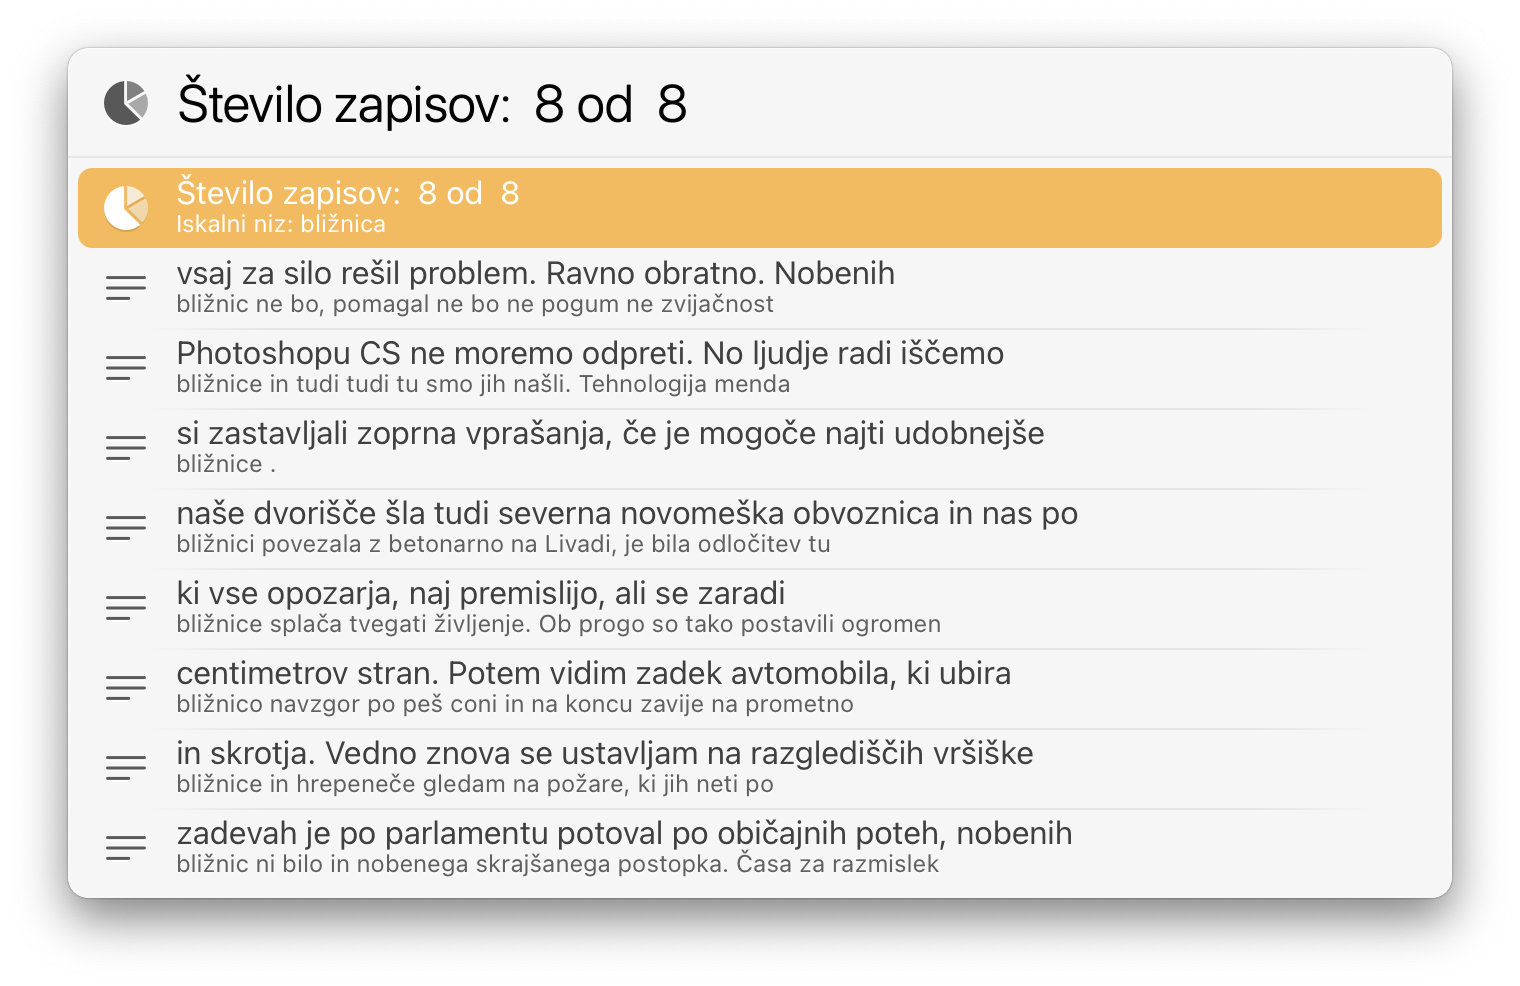
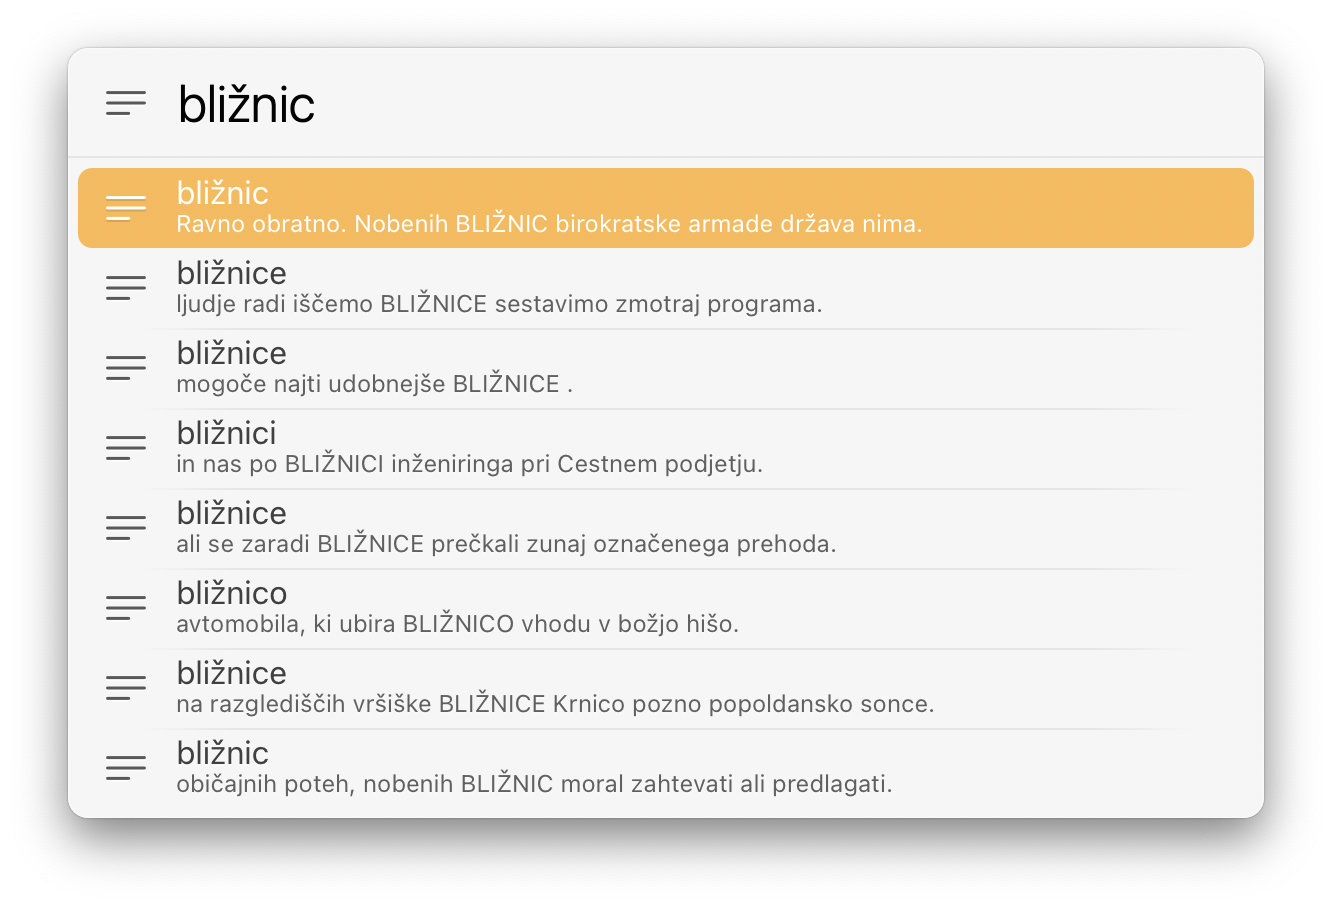
Gigafida 1.2
- Improved display
- HTMLEntityDecode via swift script

You can [compile with this action with my Compile Swift Action](https://github.com/Ptujec/LaunchBar/tree/master/Compile-Swift-Action). In this case you also need to uncomment line 68 and comment out line 66 in `default.js`. Please ask if you need help with that.

Changed region(s): [[0.0308, 0.0618, 0.9542, 0.9272]]

diff --git a/Slovene-Actions/Gigafida.lbaction/Contents/Scripts/default.js b/Slovene-Actions/Gigafida.lbaction/Contents/Scripts/default.js
@@ -1,131 +1,146 @@
 // LaunchBar Action for Gigafide - Korpus pisne standardne slovenščine (https://viri.cjvt.si/gigafida/)
 
 function run(argument) {
-  if (argument != undefined) {
-    argument = argument.trim().replace(/\s+/g, '+');
-
-    if (LaunchBar.options.controlKey) {
-      argument = '"' + argument + '"';
-    }
-
-    //  Main action
-    var mainURL =
-      'https://viri.cjvt.si/gigafida/Concordance/Search?Query=' +
-      encodeURI(argument);
-
-    if (LaunchBar.options.commandKey) {
-      LaunchBar.hide();
-      LaunchBar.openURL(mainURL);
-    } else {
-      var data = HTTP.loadRequest(mainURL, {
-        timeout: 5.0,
-        method: 'GET',
-        resultType: 'text',
-      }).data;
-
-      var colocationsSubfragment = data.match(
-        /<div class="colocationsSubfragment">(.|\n|\r)*?<footer>/g
-      );
-
-      // LaunchBar.paste(colocationsSubfragment);
-
-      if (colocationsSubfragment == null) {
-        var response = LaunchBar.alert(
-          'Gigafida: Ni bilo zadetkov!',
-          'Lahko poskusite na spletni strani "Nova beseda" (ZRC SAZU) ali na Googlu?',
-          'Nova beseda (ZRC SAZU)',
-          'Google',
-          'Cancel'
-        );
-        switch (response) {
-          case 0:
-            LaunchBar.openURL(
-              'http://bos.zrc-sazu.si/c/ada.exe?hits_shown=100&clm=22&crm=22&expression=' +
-                encodeURI(argument) +
-                '&clm=22&crm=22&wth=0&hits_shown=100&sel=%28all%29&name=a_si'
-            );
-            break;
-          case 1:
-            LaunchBar.openURL(
-              'http://www.google.si/search?q=' + encodeURIComponent(argument)
-            );
-            break;
-          case 2:
-            break;
-        }
-        return;
-      } else {
-        colocationsSubfragment = colocationsSubfragment
-          .toString()
-          .replace(/&#x17E;/g, 'ž')
-          .replace(/&#x17D;/g, 'Ž')
-          .replace(/&#x10D;/g, 'č')
-          .replace(/&#x10C;/g, 'Č')
-          .replace(/&#x161;/g, 'š')
-          .replace(/&#x160;/g, 'Š')
-          .replace(/&#x107;/g, 'ć')
-          .replace(/&#xFC;/g, 'ü')
-          .replace(/&#xDC;/g, 'Ü')
-          .replace(/&#xF6;/g, 'ö')
-          .replace(/&#xD6;/g, 'Ö')
-          .replace(/&#xE4;/g, 'ä')
-          .replace(/&#xC4;/g, 'Ä')
-          .replace(/&#xF4;/g, 'ô')
-          .replace(/&#xF3;/g, 'ó')
-          .replace(/&#xE3;/g, 'ã')
-          .replace(/&#xE1;/g, 'á')
-          .replace(/&#xED;/g, 'í')
-          .replace(/&#xE9;/g, 'é')
-          .replace(/&#x2B;/g, '+')
-          .replace(/&#xBB;/g, '»')
-          .replace(/&#xAB;/g, '«')
-          .replace(/&#x201C;/g, '“')
-          .replace(/&#x201D;/g, '”')
-          .replace(/&quot;/g, '"')
-          .replace(/&#x27;/g, "'")
-          .replace(/&#x2026;/g, '…')
-          .replace(/&#x2022;/g, '•')
-          .replace(/&#x2013;/g, '–')
-          .replace(/&#x2666/g, '♦')
-          .replace(/&#xB0/g, '°')
-          .replace(/&nbsp;/g, '');
-
-        var leftText = colocationsSubfragment.match(
-          /<div class="pure-u-1-2 text left">.*?<\/div>/g
-        );
-
-        var rightText = colocationsSubfragment.match(
-          /<div class="pure-u-1-2 text right">.*?<\/div>/g
-        );
-
-        var result = [];
-        for (var i = 0; i < rightText.length; i++) {
-          var left = leftText[i].replace(/(<([^>]+)>)/g, '');
-          var right = rightText[i].replace(/(<([^>]+)>)/g, '');
-
-          var pushData = {
-            icon: 'resultTemplate',
-            action: 'openURL',
-            actionArgument: mainURL,
-          };
-
-          if (left != '') {
-            pushData.title = left;
-            pushData.subtitle = right;
-          } else {
-            pushData.title = right;
-          }
-
-          result.push(pushData);
-        }
-        return result;
-      }
-    }
-  } else {
+  if (!argument) {
     // No argument passed, just open the website:
     LaunchBar.hide();
     LaunchBar.openURL('https://viri.cjvt.si/gigafida/');
+    return;
   }
+
+  argument = argument.trim().replace(/\s+/g, '+');
+
+  if (LaunchBar.options.controlKey) argument = `"${argument}"`;
+
+  //  Main action
+  const mainURL = `https://viri.cjvt.si/gigafida/Concordance/Search?Query=${encodeURI(
+    argument
+  )}`;
+
+  if (LaunchBar.options.commandKey) {
+    LaunchBar.hide();
+    LaunchBar.openURL(mainURL);
+    return;
+  }
+
+  const data = HTTP.loadRequest(mainURL, {
+    timeout: 5.0,
+    method: 'GET',
+    resultType: 'text',
+  }).data;
+
+  let colocationsSubfragment = data.match(
+    /<div class="colocationsSubfragment">(.|\n|\r)*?<footer>/g
+  );
+
+  if (!colocationsSubfragment) {
+    const response = LaunchBar.alert(
+      'Gigafida: Ni bilo zadetkov!',
+      'Lahko poskusite na spletni strani "Nova beseda" (ZRC SAZU) ali na Googlu?',
+      'Nova beseda (ZRC SAZU)',
+      'Google',
+      'Cancel'
+    );
+    switch (response) {
+      case 0:
+        LaunchBar.openURL(
+          `http://bos.zrc-sazu.si/c/ada.exe?hits_shown=100&clm=22&crm=22&expression=${encodeURI(
+            argument
+          )}&clm=22&crm=22&wth=0&hits_shown=100&sel=%28all%29&name=a_si`
+        );
+        break;
+      case 1:
+        LaunchBar.openURL(
+          `http://www.google.si/search?q=${encodeURIComponent(argument)}`
+        );
+        break;
+      case 2:
+        break;
+    }
+    return;
+  }
+
+  colocationsSubfragment = colocationsSubfragment[0].replace(/&nbsp;/g, '');
+
+  colocationsSubfragment = LaunchBar.execute(
+    `${Action.path}/Contents/Scripts/HTMLEntityDecode.swift`,
+
+    // `${Action.path}/Contents/Scripts/HTMLEntityDecode`,
+    colocationsSubfragment
+  );
+
+  //   .replace(/&#x17E;/g, 'ž')
+  //   .replace(/&#x17D;/g, 'Ž')
+  //   .replace(/&#x10D;/g, 'č')
+  //   .replace(/&#x10C;/g, 'Č')
+  //   .replace(/&#x161;/g, 'š')
+  //   .replace(/&#x160;/g, 'Š')
+  //   .replace(/&#x107;/g, 'ć')
+  //   .replace(/&#xFC;/g, 'ü')
+  //   .replace(/&#xDC;/g, 'Ü')
+  //   .replace(/&#xF6;/g, 'ö')
+  //   .replace(/&#xD6;/g, 'Ö')
+  //   .replace(/&#xE4;/g, 'ä')
+  //   .replace(/&#xC4;/g, 'Ä')
+  //   .replace(/&#xF4;/g, 'ô')
+  //   .replace(/&#xF3;/g, 'ó')
+  //   .replace(/&#xE3;/g, 'ã')
+  //   .replace(/&#xE1;/g, 'á')
+  //   .replace(/&#xED;/g, 'í')
+  //   .replace(/&#xE9;/g, 'é')
+  //   .replace(/&#x2B;/g, '+')
+  //   .replace(/&#xBB;/g, '»')
+  //   .replace(/&#xAB;/g, '«')
+  //   .replace(/&#x201C;/g, '“')
+  //   .replace(/&#x201D;/g, '”')
+  //   .replace(/&quot;/g, '"')
+  //   .replace(/&#x27;/g, "'")
+  //   .replace(/&#x2026;/g, '…')
+  //   .replace(/&#x2022;/g, '•')
+  //   .replace(/&#x2013;/g, '–')
+  //   .replace(/&#x2666/g, '♦')
+  //   .replace(/&#xB0/g, '°')
+
+  const leftText = colocationsSubfragment.match(
+    /<div class="pure-u-1-2 text left">.*?<\/div>/g
+  );
+
+  const rightText = colocationsSubfragment.match(
+    /<div class="pure-u-1-2 text right">.*?<\/div>/g
+  );
+
+  // LaunchBar.alert(leftText[0]);
+  // LaunchBar.alert(rightText[0]);
+
+  let result = [];
+  for (var i = 0; i < rightText.length; i++) {
+    let left = leftText[i].replace(/(<([^>]+)>)/g, '');
+
+    left = left.split(' ').slice(-4).join(' ');
+
+    let right = rightText[i]; //.replace(/(<([^>]+)>)/g, '');
+
+    let center = right
+      .match(/<div class="pure-u-1-2 text right">.*<\/span>/)[0]
+      .replace(/(<([^>]+)>)/g, '');
+
+    right = right
+      .replace(/<div class="pure-u-1-2 text right">.*<\/span>/, '')
+      .replace(/(<([^>]+)>)/g, '')
+      .split(' ')
+      .slice(-4)
+      .join(' ');
+
+    result.push({
+      title: center,
+      subtitle: `${left + center.toUpperCase()} ${right}`,
+      icon: 'resultTemplate',
+      action: 'openURL',
+      actionArgument: mainURL,
+      alwaysShowsSubtitle: true,
+    });
+  }
+  return result;
 }
 
 function openURL(url) {

diff --git a/Slovene-Actions/Gigafida.lbaction/Contents/Scripts/HTMLEntityDecode.swift b/Slovene-Actions/Gigafida.lbaction/Contents/Scripts/HTMLEntityDecode.swift
@@ -1,0 +1,11 @@
+#!/usr/bin/env swift
+
+import Foundation
+import Cocoa
+
+let arguments = Array(CommandLine.arguments[1 ..< CommandLine.arguments.count])
+
+for arg in arguments
+{
+    print(CFXMLCreateStringByUnescapingEntities(nil, arg as CFString, nil) as String)
+}

diff --git a/Slovene-Actions/README.md b/Slovene-Actions/README.md
@@ -20,6 +20,8 @@ The following actions are a LaunchBar interface to tools from CJVT (Center za je
 
 <img src="gigafida.png" width="600"/>
 
+Note: This action includes a swift script which you can [compile with this action](https://github.com/Ptujec/LaunchBar/tree/master/Compile-Swift-Action). In this case you also need to uncomment line 68 and comment out line 66 in `default.js`. Please ask if you need help with that.
+
 CJVT tools are provided under a Creative Commons Attribution-NonCommercial-ShareAlike 4.0 International license [(CC BY-NC-SA 4.0)](https://creativecommons.org/licenses/by-nc-sa/4.0/). 
 
 ## Slovar slovenskega knjižnega jezika (SSKJ²)
